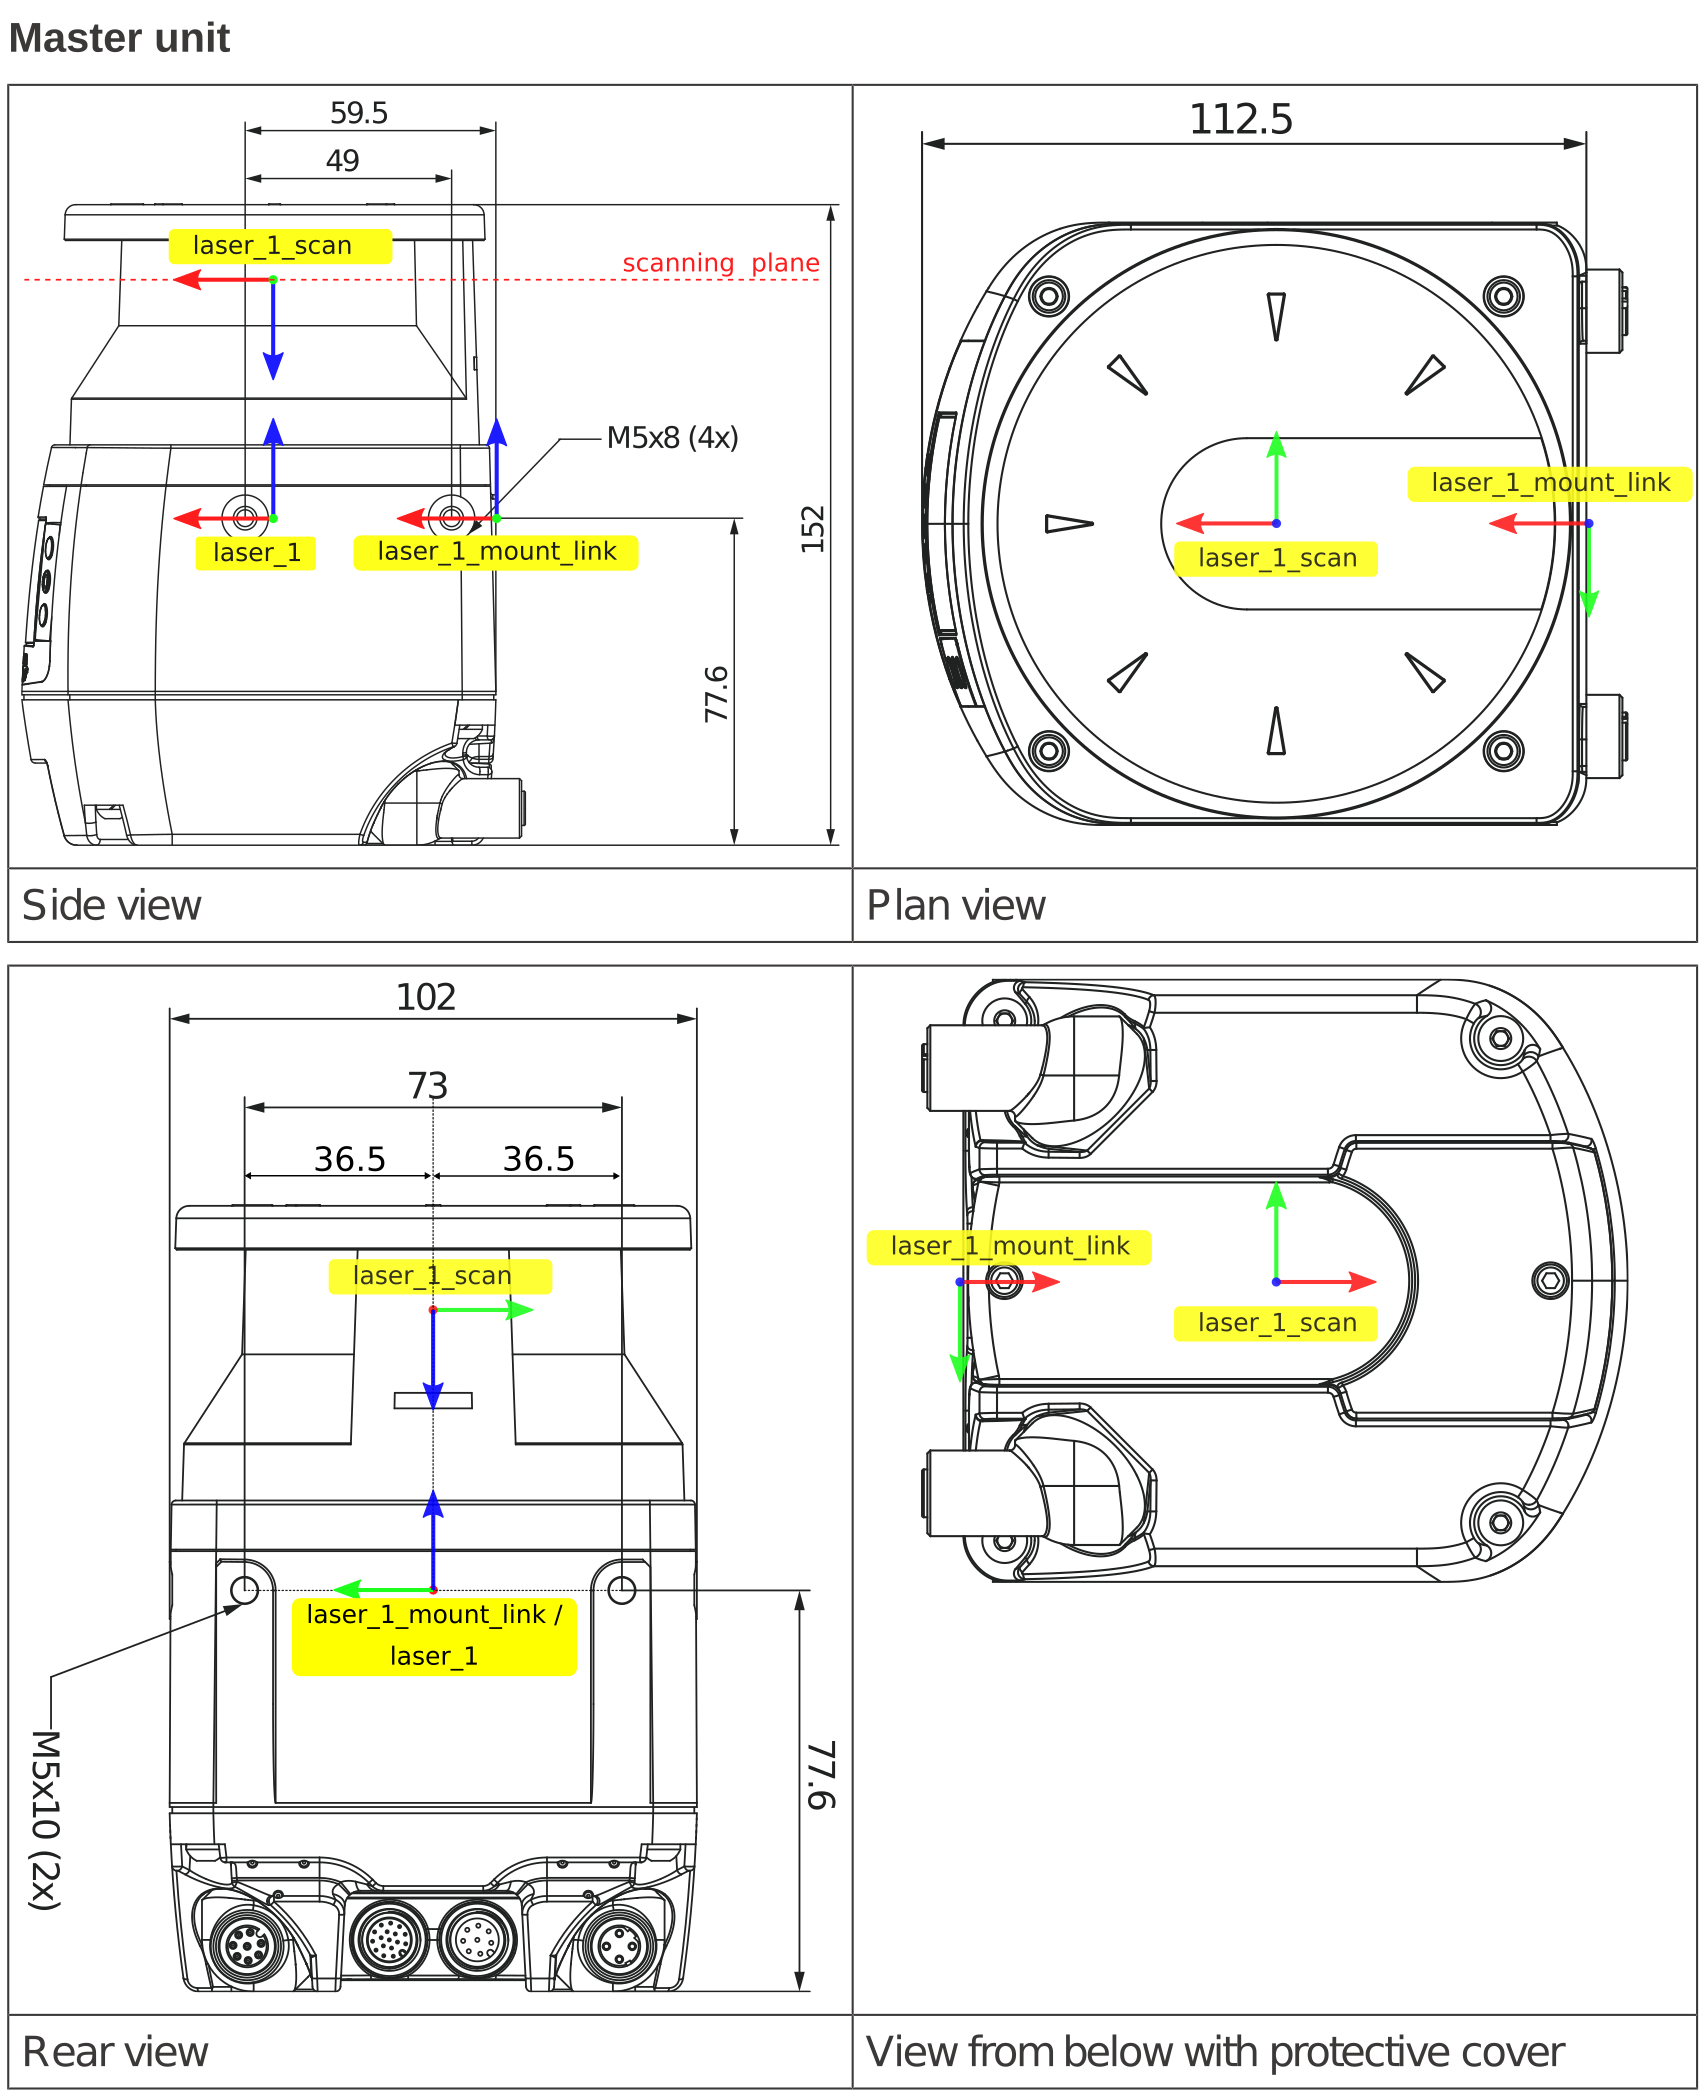
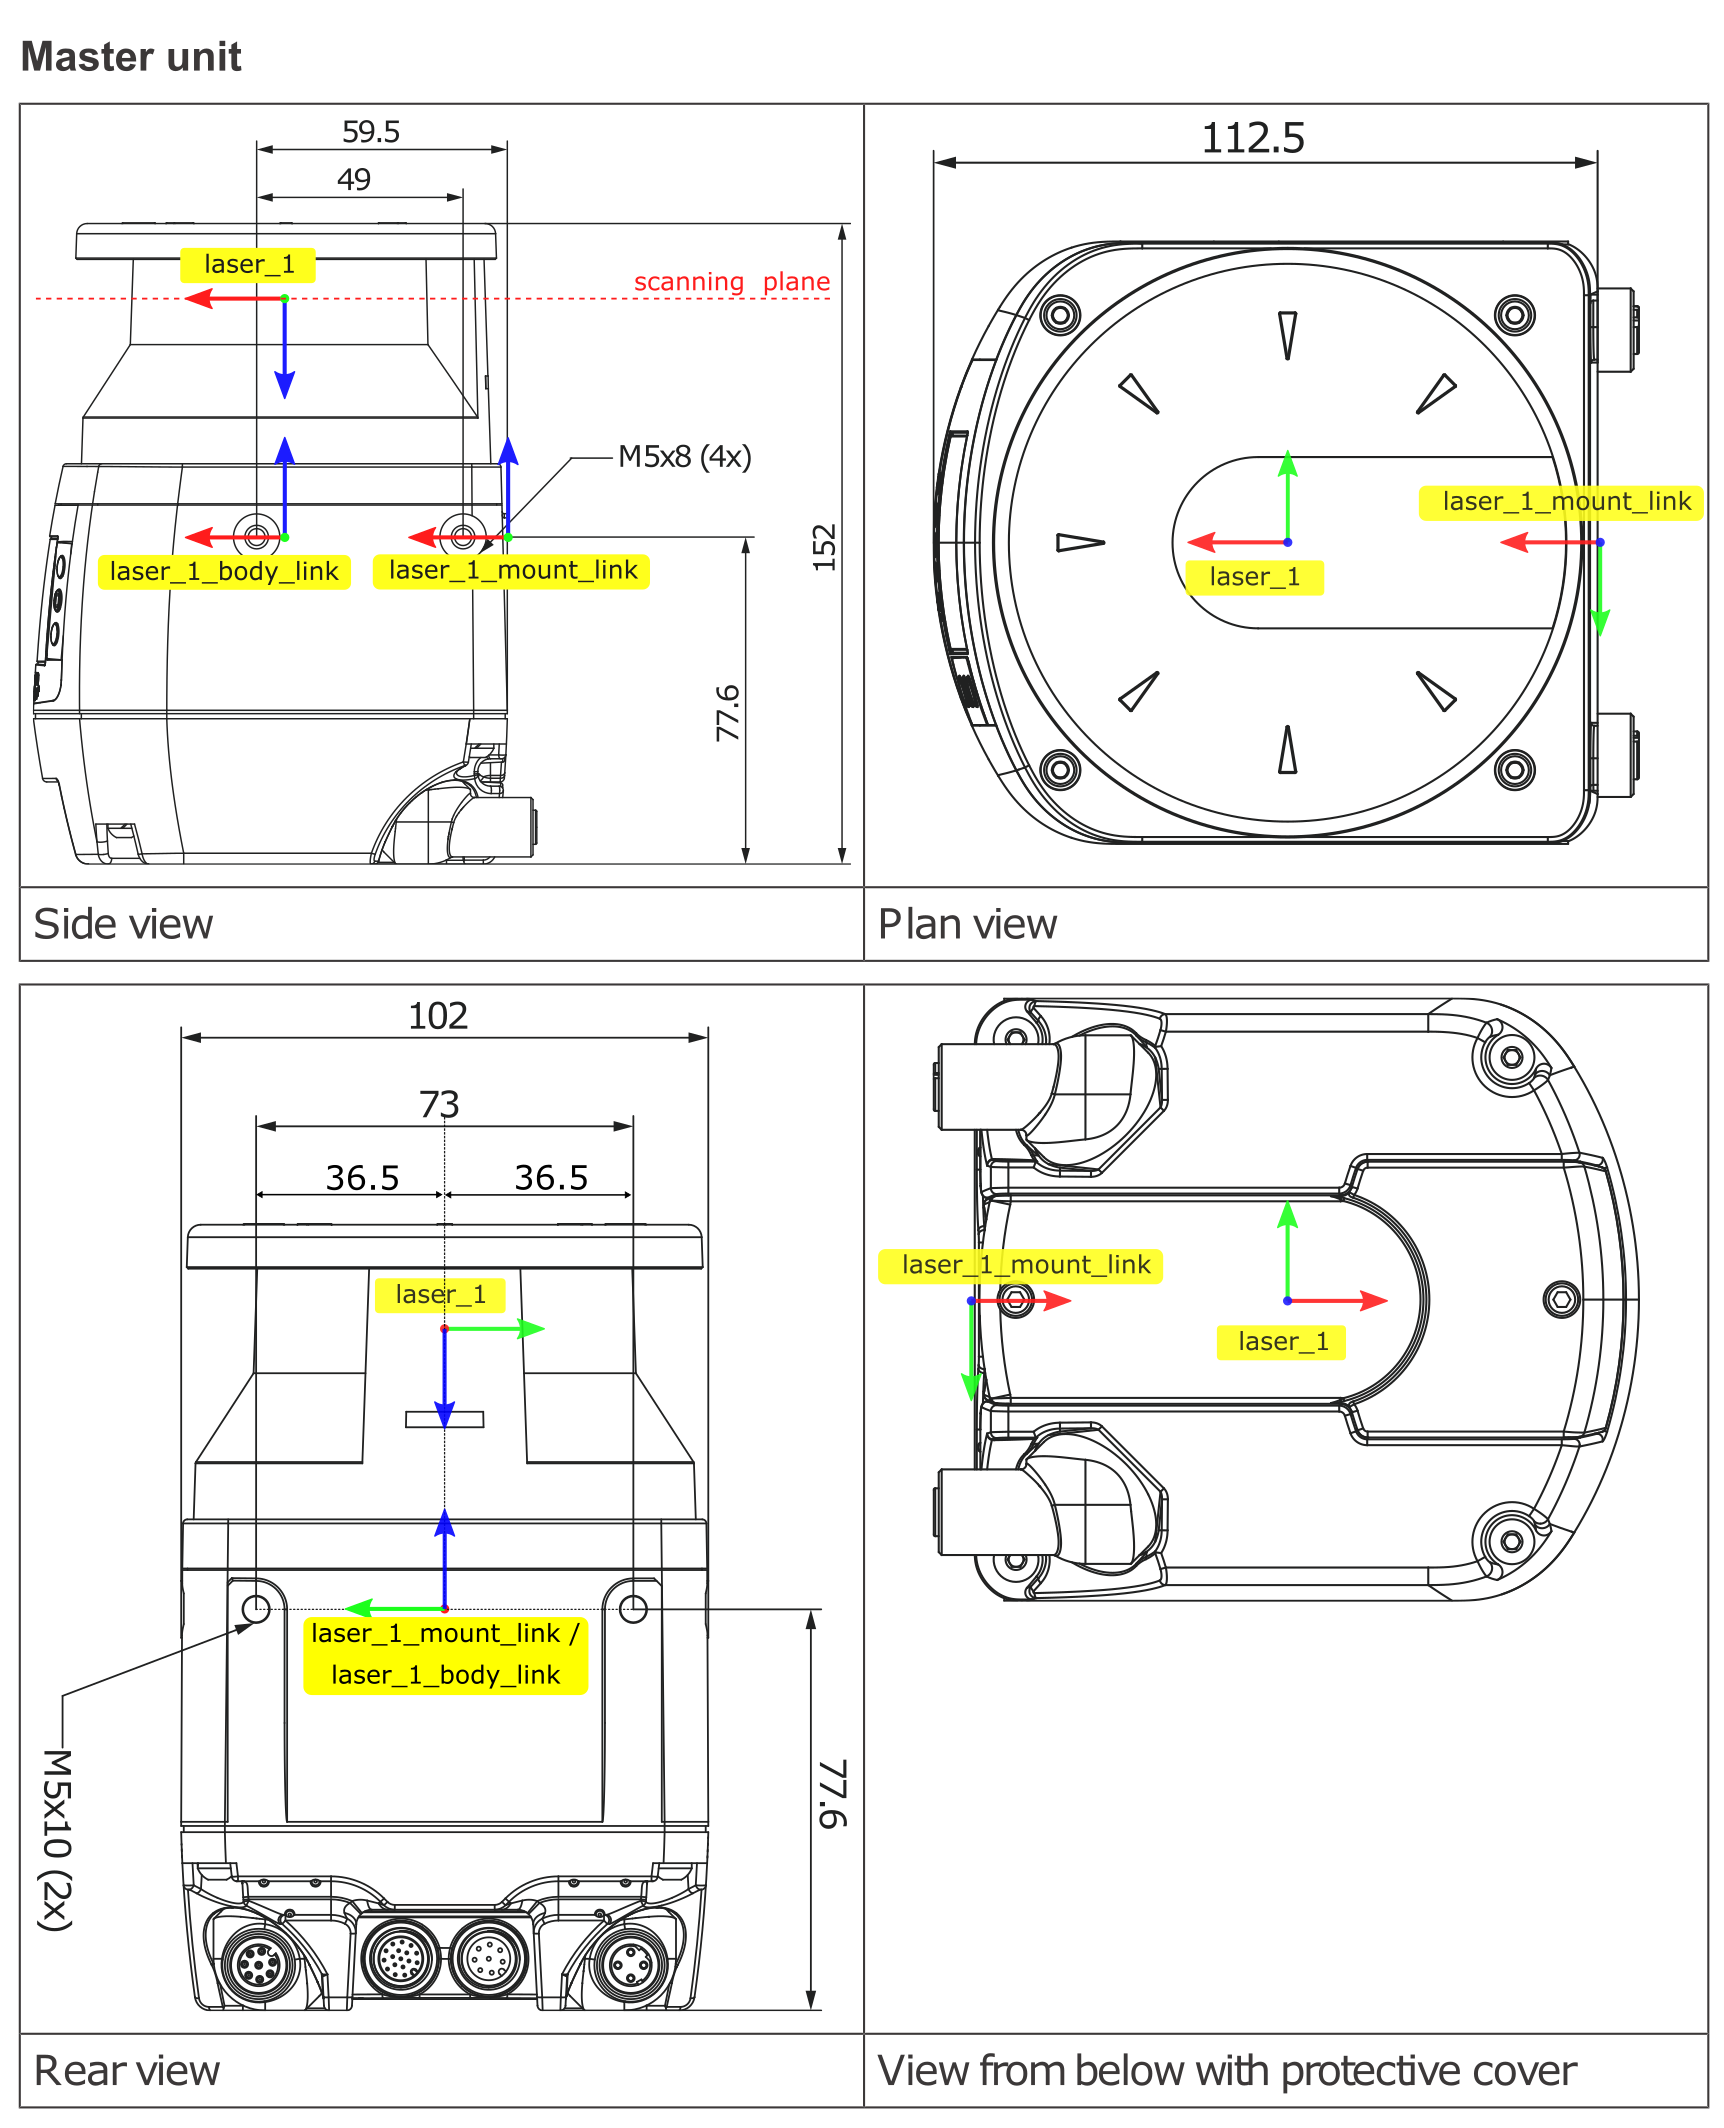
Rename urdf links
* Rename launch-file argument name->tf_prefix

diff --git a/include/psen_scan_v2/ros_scanner_node.h b/include/psen_scan_v2/ros_scanner_node.h
@@ -54,13 +54,13 @@ public:
    *
    * @param nh Node handle for the ROS node on which the scanner topic is advertised.
    * @param topic Name of the ROS topic under which the scanner data are published.
-   * @param prefix Prefix for the frame ids.
+   * @param tf_prefix Prefix for the frame ids.
    * @param x_axis_rotation Rotation of 2D scan around the z-axis.
    * @param scanner_config Scanner configuration.
    */
   ROSScannerNodeT(ros::NodeHandle& nh,
                   const std::string& topic,
-                  const std::string& prefix,
+                  const std::string& tf_prefix,
                   const double& x_axis_rotation,
                   const ScannerConfiguration& scanner_config);
 
@@ -75,7 +75,7 @@ private:
 private:
   ros::NodeHandle nh_;
   ros::Publisher pub_;
-  std::string prefix_;
+  std::string tf_prefix_;
   double x_axis_rotation_;
   S scanner_;
   std::atomic_bool terminate_{ false };
@@ -93,11 +93,11 @@ typedef ROSScannerNodeT<> ROSScannerNode;
 template <typename S>
 ROSScannerNodeT<S>::ROSScannerNodeT(ros::NodeHandle& nh,
                                     const std::string& topic,
-                                    const std::string& prefix,
+                                    const std::string& tf_prefix,
                                     const double& x_axis_rotation,
                                     const ScannerConfiguration& scanner_config)
   : nh_(nh)
-  , prefix_(prefix)
+  , tf_prefix_(tf_prefix)
   , x_axis_rotation_(x_axis_rotation)
   , scanner_(scanner_config, std::bind(&ROSScannerNodeT<S>::laserScanCallback, this, std::placeholders::_1))
 {
@@ -107,7 +107,7 @@ ROSScannerNodeT<S>::ROSScannerNodeT(ros::NodeHandle& nh,
 template <typename S>
 void ROSScannerNodeT<S>::laserScanCallback(const LaserScan& scan)
 {
-  const auto laserScanMsg = toLaserScanMsg(scan, prefix_, x_axis_rotation_);
+  const auto laserScanMsg = toLaserScanMsg(scan, tf_prefix_, x_axis_rotation_);
   PSENSCAN_INFO_ONCE(
       "ScannerNode",
       "Publishing laser scan with angle_min={:.1f} angle_max={:.1f} angle_increment={:.1f} degrees. {} angle values.",

diff --git a/src/psen_scan_driver.cpp b/src/psen_scan_driver.cpp
@@ -42,7 +42,7 @@ const std::string PARAM_HOST_IP{ "host_ip" };
 const std::string PARAM_HOST_DATA_PORT{ "host_udp_port_data" };
 const std::string PARAM_HOST_CONTROL_PORT{ "host_udp_port_control" };
 const std::string PARAM_SCANNER_IP{ "sensor_ip" };
-const std::string PARAM_PREFIX{ "name" };
+const std::string PARAM_TF_PREFIX{ "tf_prefix" };
 const std::string PARAM_ANGLE_START{ "angle_start" };
 const std::string PARAM_ANGLE_END{ "angle_end" };
 const std::string PARAM_X_AXIS_ROTATION{ "x_axis_rotation" };
@@ -50,7 +50,7 @@ const std::string PARAM_FRAGMENTED_SCANS{ "fragmented_scans" };
 const std::string PARAM_INTENSITIES{ "intensities" };
 const std::string PARAM_RESOLUTION{ "resolution" };
 
-static const std::string DEFAULT_PREFIX = "scanner";
+static const std::string DEFAULT_TF_PREFIX = "laser_1";
 
 //! @brief Topic on which the LaserScan data are published.
 static const std::string DEFAULT_PUBLISH_TOPIC = "scan";
@@ -108,7 +108,7 @@ int main(int argc, char** argv)
 
     ROSScannerNode ros_scanner_node(pnh,
                                     DEFAULT_PUBLISH_TOPIC,
-                                    getOptionalParamFromServer<std::string>(pnh, PARAM_PREFIX, DEFAULT_PREFIX),
+                                    getOptionalParamFromServer<std::string>(pnh, PARAM_TF_PREFIX, DEFAULT_TF_PREFIX),
                                     configuration::DEFAULT_X_AXIS_ROTATION,
                                     scanner_configuration);
 

diff --git a/include/psen_scan_v2/laserscan_ros_conversions.h b/include/psen_scan_v2/laserscan_ros_conversions.h
@@ -25,13 +25,13 @@ namespace psen_scan_v2
 using namespace psen_scan_v2_standalone;
 
 sensor_msgs::LaserScan toLaserScanMsg(const LaserScan& laserscan,
-                                      const std::string& prefix,
+                                      const std::string& frame_id,
                                       const double x_axis_rotation,
                                       const ros::Time& timestamp = ros::Time::now())
 {
   sensor_msgs::LaserScan ros_message;
   ros_message.header.stamp = timestamp;
-  ros_message.header.frame_id = prefix + configuration::SCAN_FRAME_ID_SUFFIX;
+  ros_message.header.frame_id = frame_id;
   ros_message.angle_min = laserscan.getMinScanAngle().toRad() - x_axis_rotation;
   ros_message.angle_max = laserscan.getMaxScanAngle().toRad() - x_axis_rotation;
   ros_message.angle_increment = laserscan.getScanResolution().toRad();

diff --git a/test/unit_tests/unittest_laserscan_ros_conversions.cpp b/test/unit_tests/unittest_laserscan_ros_conversions.cpp
@@ -57,7 +57,7 @@ static LaserScan createScan()
 TEST(LaserScanROSConversionsTest, laserSensorMsgShouldContainCorrectHeaderAfterConversion)
 {
   const std::string prefix{ "prefix" };
-  const std::string frame_id{ prefix + "_scan" };
+  const std::string frame_id{ prefix };
   const ros::Time now = ros::Time::now();
   const sensor_msgs::LaserScan laserscan_msg = toLaserScanMsg(createScan(), prefix, 0, now);
 

diff --git a/standalone/include/psen_scan_v2_standalone/configuration/default_parameters.h b/standalone/include/psen_scan_v2_standalone/configuration/default_parameters.h
@@ -46,8 +46,6 @@ static constexpr double RANGE_MIN_IN_M{ 0.05 };
 static constexpr double RANGE_MAX_IN_M{ 40. };
 
 static constexpr double DEFAULT_X_AXIS_ROTATION(data_conversion_layer::degreeToRadian(137.5));
-
-static std::string SCAN_FRAME_ID_SUFFIX{ "_scan" };
 }  // namespace configuration
 
 }  // namespace psen_scan_v2_standalone

diff --git a/README.md b/README.md
@@ -70,8 +70,8 @@ IP-Address of safety laser scanner.
 
 ### Optional Parameters
 
-_name_ (_string_, default: "laser_1")<br/>
-Name of this scanner that can be changed to differentiate between multiple devices. By convention this is also used as tf prefix.
+_tf_prefix_ (_string_, default: "laser_1")<br/>
+Name of this scanner that can be changed to differentiate between multiple devices. By convention this is used as tf prefix.
 
 _angle_start_ (_double_, default: -2.398 (= -137.4 deg))<br/>
 Start angle of measurement. (Radian)
@@ -123,7 +123,7 @@ Changing them is necessary for instance when running multiple scanners.
 ### Defining the scan range
 You can adjust the scan field to your needs by changing _angle_start_ and _angle_end_.
 The published ([sensor_msgs/LaserScan][]) will only contain data within the given angle limits.
-Both limits are defined within the _laser_1_scan_ frame as shown in the image below.
+Both limits are defined within the _laser_1_ frame as shown in the image below.
 
 <p align="center">
 <img src="img/angle_limits.png" width="800px" alt="Limit visualization" title="Limit visualization">
@@ -151,6 +151,7 @@ To update your ROS environment from the former `psen_scan` package (which suppor
 3. Replace the launch file arguments:
 	* `password` and `x_axis_rotation` are obsolete and should be dropped
 	* `angle_start` and `angle_end` are now in radians, in direction of the x axis of the scanner tf frame
+   * `prefix` is replaced by `tf_prefix`
 4. In your application launch file / roslaunch command: replace all occurrences of `psen_scan` with `psen_scan_v2`
 
 ## You need further information?

diff --git a/CHANGELOG.rst b/CHANGELOG.rst
@@ -4,7 +4,9 @@ Changelog for package psen_scan_v2
 
 Forthcoming
 -----------
+* Rename urdf links
 * Apply tf prefix equals node name
+* Contributors: Pilz GmbH and Co. KG
 
 0.3.0 (2021-06-29)
 ------------------
